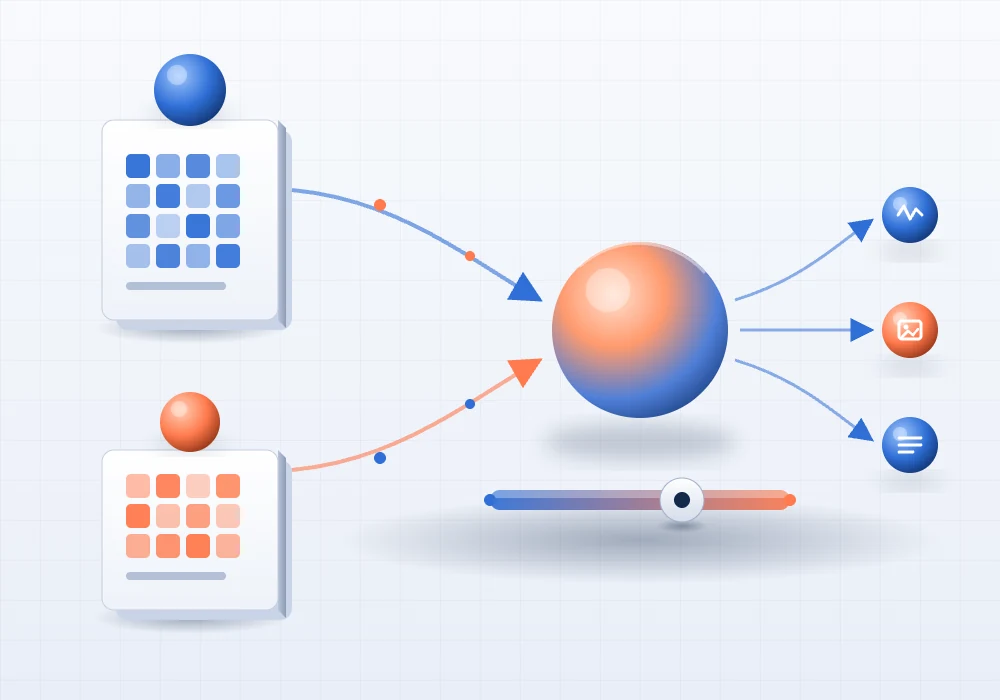
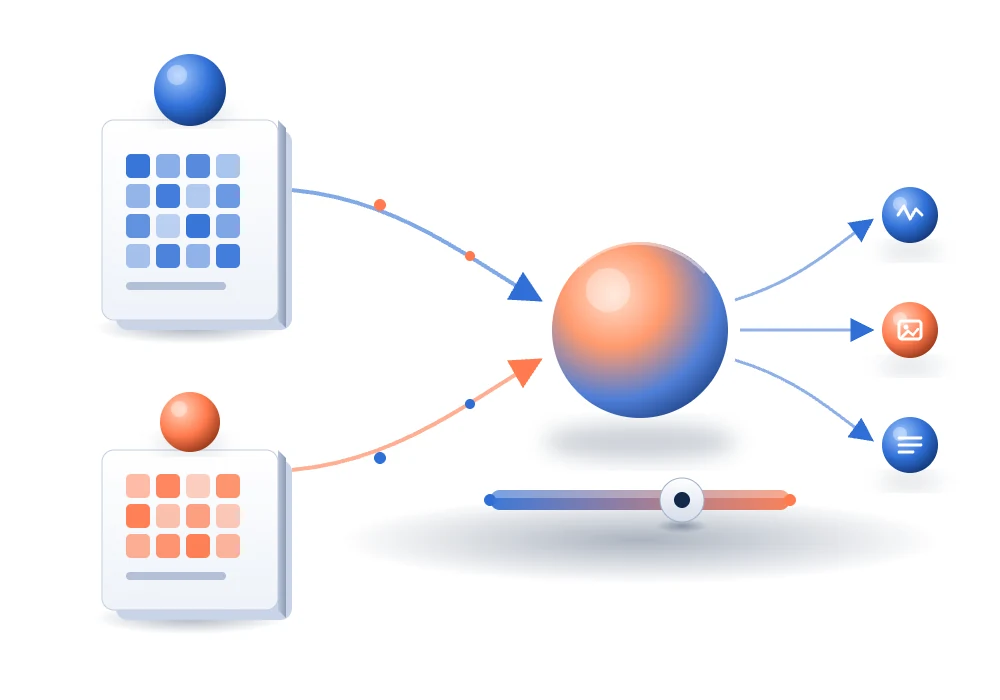
Update buttons to share the LinkChip style
Use LinkChip for paper, GitHub and journey buttons. Remove the liquid glass styles and the paper link component.

diff --git a/src/styles/globals.css b/src/styles/globals.css
@@ -135,14 +135,6 @@
     pointer-events: none;
   }
 
-  .link-chip.bg-gray-900 {
-    background-image: linear-gradient(180deg, rgba(255, 255, 255, 0.28), rgba(255, 255, 255, 0.08));
-    box-shadow:
-      inset 0 1px 0 rgba(255, 255, 255, 0.6),
-      inset 0 -1px 0 rgba(255, 255, 255, 0.15),
-      0 8px 22px -10px rgba(0, 0, 0, 0.6);
-  }
-
   .link-chip:hover {
     @apply no-underline;
     border-color: rgba(255, 255, 255, 0.9);
@@ -188,15 +180,6 @@
 
   .paper-badge-muted {
     background-color: #4c5b73;
-  }
-
-  /* Paper buttons: plain outlined pills, as on an academic homepage. */
-  .paper-link {
-    @apply inline-flex items-center gap-1.5 rounded-md border border-gray-300 bg-white px-3 py-1.5 text-sm font-medium text-gray-700 transition-colors duration-150;
-  }
-
-  .paper-link:hover {
-    @apply border-gray-400 bg-gray-50 text-gray-900 no-underline;
   }
 
   .announcement-box {
@@ -252,139 +235,3 @@
   }
 }
 
-.liquid-glass-button {
-  --glass-blur: 6px;
-  --glass-saturation: 180%;
-  --glass-border: rgba(255, 255, 255, 0.4);
-
-  position: relative;
-  background: rgba(219, 234, 254, 0.9);
-  backdrop-filter: blur(var(--glass-blur)) saturate(var(--glass-saturation));
-  -webkit-backdrop-filter: blur(var(--glass-blur)) saturate(var(--glass-saturation));
-  border: 1px solid var(--glass-border);
-  color: var(--color-primary);
-  border-radius: 14px;
-  overflow: hidden;
-  isolation: isolate;
-  box-shadow:
-    0 8px 32px rgba(31, 38, 135, 0.18),
-    inset 0 1px 1px rgba(255, 255, 255, 0.7),
-    inset 0 -1px 1px rgba(0, 0, 0, 0.1);
-  transition:
-    transform 0.3s cubic-bezier(0.34, 1.56, 0.64, 1),
-    box-shadow 0.3s ease,
-    border-color 0.3s ease,
-    background 0.3s ease;
-}
-
-.liquid-glass-button::before {
-  content: "";
-  position: absolute;
-  inset: 0;
-  background:
-    radial-gradient(ellipse 100% 80% at 50% -20%, rgba(255, 255, 255, 0.6) 0%, transparent 50%),
-    linear-gradient(
-      105deg,
-      transparent 40%,
-      rgba(255, 255, 255, 0.4) 45%,
-      rgba(255, 255, 255, 0.2) 50%,
-      transparent 55%
-    );
-  background-size: 100% 100%, 250% 100%;
-  background-position: 0 0, 100% 0;
-  opacity: 0.8;
-  border-radius: inherit;
-  pointer-events: none;
-  z-index: 1;
-  transition: background-position 0.5s ease, opacity 0.4s ease;
-}
-
-.liquid-glass-button::after {
-  content: "";
-  position: absolute;
-  inset: 0;
-  background: linear-gradient(
-    to bottom,
-    transparent 0%,
-    transparent 50%,
-    rgba(255, 255, 255, 0.15) 100%
-  );
-  border-radius: inherit;
-  box-shadow:
-    inset 0 0 30px rgba(255, 255, 255, 0.1),
-    inset 0 1px 2px rgba(255, 255, 255, 0.3);
-  pointer-events: none;
-  z-index: 2;
-  opacity: 0.7;
-  transition: opacity 0.4s ease;
-}
-
-.liquid-glass-button:hover {
-  --glass-border: rgba(255, 255, 255, 0.55);
-  background: rgba(191, 219, 254, 0.95);
-  transform: translateY(-3px) scale(1.02);
-  box-shadow:
-    0 12px 40px rgba(31, 38, 135, 0.25),
-    0 4px 12px rgba(147, 112, 219, 0.15),
-    inset 0 1px 2px rgba(255, 255, 255, 0.8),
-    inset 0 -1px 2px rgba(0, 0, 0, 0.1);
-}
-
-.liquid-glass-button:hover::before {
-  background-position: 0 0, -100% 0;
-  opacity: 1;
-}
-
-.liquid-glass-button:hover::after {
-  opacity: 1;
-}
-
-.liquid-glass-button:active {
-  transform: translateY(0) scale(0.98);
-  box-shadow:
-    0 4px 16px rgba(31, 38, 135, 0.12),
-    inset 0 2px 4px rgba(0, 0, 0, 0.15),
-    inset 0 -1px 1px rgba(255, 255, 255, 0.3);
-}
-
-.liquid-glass-button:focus-visible {
-  outline: 2px solid var(--color-accent);
-  outline-offset: 2px;
-}
-
-.liquid-glass-button-content {
-  position: relative;
-  z-index: 10;
-  display: flex;
-  align-items: center;
-  gap: 8px;
-}
-
-.liquid-glass-icon {
-  transition: transform 0.4s cubic-bezier(0.34, 1.56, 0.64, 1);
-  color: var(--color-accent);
-  filter: drop-shadow(0 1px 2px rgba(0, 0, 0, 0.1));
-}
-
-.liquid-glass-button:hover .liquid-glass-icon {
-  transform: translateX(4px) rotate(15deg) scale(1.1);
-}
-
-@media (prefers-color-scheme: dark) {
-  .liquid-glass-button {
-    --glass-border: rgba(255, 255, 255, 0.2);
-  }
-}
-
-@media (prefers-reduced-motion: reduce) {
-  .liquid-glass-button,
-  .liquid-glass-button::before,
-  .liquid-glass-button::after,
-  .liquid-glass-icon {
-    transition: none;
-  }
-
-  .liquid-glass-button:hover {
-    transform: none;
-  }
-}

diff --git a/src/components/ui/PublicationCard.tsx b/src/components/ui/PublicationCard.tsx
@@ -1,7 +1,7 @@
 import { Fragment } from "react"
-import { CirclePlay, FileText, Globe, Quote, type LucideIcon } from "lucide-react"
-import type { ContentCard, ContentLink } from "@/data/content"
+import type { ContentCard } from "@/data/content"
 import { PROFILE } from "@/data/content"
+import { LinkChip } from "@/components/ui/ContentLinks"
 
 // The venue acronym in parentheses is bold, as on the reference homepages.
 function renderVenue(venue: string) {
@@ -14,19 +14,6 @@ function renderVenue(venue: string) {
       <strong className="text-gray-700">{match[1]}</strong>
       {venue.slice(start + match[1].length)}
     </>
-  )
-}
-
-// Paper buttons are plain outlined pills, like an academic homepage, not the site's glass chips.
-const PAPER_ICONS: Partial<Record<string, LucideIcon>> = { pdf: FileText, "project page": Globe, video: CirclePlay, bibtex: Quote }
-
-function PaperLink({ link }: { link: ContentLink }) {
-  const Icon = PAPER_ICONS[link.label.toLowerCase()]
-  return (
-    <a href={link.url} target="_blank" rel="noopener noreferrer" className="paper-link">
-      {Icon ? <Icon size={13} /> : null}
-      {link.label}
-    </a>
   )
 }
 
@@ -95,7 +82,7 @@ export function PublicationCard({ publication }: PublicationCardProps) {
         {publication.links && publication.links.length > 0 && (
           <div className="mt-4 flex flex-wrap items-center gap-2">
             {publication.links.map((link) => (
-              <PaperLink key={link.url} link={link} />
+              <LinkChip key={link.url} link={link} />
             ))}
           </div>
         )}

diff --git a/src/pages/ProjectsPage.tsx b/src/pages/ProjectsPage.tsx
@@ -1,8 +1,8 @@
 import { BentoGrid } from "@/components/ui/BentoGrid"
 import { BentoItem } from "@/components/ui/BentoItem"
 import { ContentBullets } from "@/components/ui/ContentBullets"
+import { LinkChip } from "@/components/ui/ContentLinks"
 import { SectionHeader } from "@/components/ui/SectionHeader"
-import { ExternalLink, GithubIcon } from "lucide-react"
 import { SECTIONS } from "@/data/content"
 import { splitLinksByLabel } from "@/utils/cards"
 
@@ -49,28 +49,9 @@ export function ProjectsPage() {
               </div>
 
               <div className="flex flex-wrap gap-2 mt-auto pt-4">
-                {githubLink && (
-                  <a
-                    href={githubLink.url}
-                    target="_blank"
-                    rel="noopener noreferrer"
-                    className="link-chip bg-gray-900 text-white hover:bg-gray-700"
-                  >
-                    <GithubIcon size={12} />
-                    GitHub
-                  </a>
-                )}
+                {githubLink && <LinkChip link={githubLink} />}
                 {otherLinks.map((link) => (
-                  <a
-                    key={link.url}
-                    href={link.url}
-                    target="_blank"
-                    rel="noopener noreferrer"
-                    className="link-chip"
-                  >
-                    {link.label}
-                    <ExternalLink size={12} />
-                  </a>
+                  <LinkChip key={link.url} link={link} />
                 ))}
               </div>
             </BentoItem>

diff --git a/src/components/ui/ContentLinks.tsx b/src/components/ui/ContentLinks.tsx
@@ -1,20 +1,23 @@
-import { CirclePlay, ExternalLink, FileText, Globe, type LucideIcon } from "lucide-react"
+import { CirclePlay, ExternalLink, FileText, Github, Globe, Quote, type LucideIcon } from "lucide-react"
 import type { ContentLink } from "@/data/content"
 
-// Keyed by lowercase link label; matched links show this icon in place of the external-link arrow.
+// Keyed by lowercase link label; matched links lead with this icon, others end with an external-link arrow.
 const LINK_ICONS: Partial<Record<string, LucideIcon>> = {
   arxiv: FileText,
+  pdf: FileText,
   "project page": Globe,
   video: CirclePlay,
+  bibtex: Quote,
+  github: Github,
 }
 
-function LinkChip({ link }: { link: ContentLink }) {
+export function LinkChip({ link }: { link: ContentLink }) {
   const Icon = LINK_ICONS[link.label.toLowerCase()]
   return (
     <a href={link.url} target="_blank" rel="noopener noreferrer" className="link-chip">
-      {Icon ? <Icon size={12} /> : null}
+      {Icon ? <Icon size={13} strokeWidth={2.25} /> : null}
       {link.label}
-      {Icon ? null : <ExternalLink size={12} />}
+      {Icon ? null : <ExternalLink size={13} strokeWidth={2.25} />}
     </a>
   )
 }

diff --git a/src/components/layout/Navigation.tsx b/src/components/layout/Navigation.tsx
@@ -45,12 +45,10 @@ export function Navigation({ onMenuClick }: NavigationProps) {
             href="https://edward-h26.github.io/PersonalWebsite/"
             target="_blank"
             rel="noopener noreferrer"
-            className={prefersReducedMotion ? "px-4 py-2 text-sm font-semibold rounded-full bg-accent text-white hover:bg-accent/90 transition-colors" : "px-4 py-2 text-sm font-semibold liquid-glass-button rounded-full"}
+            className="link-chip rounded-full px-4 py-2 font-semibold"
           >
-            <span className={prefersReducedMotion ? "flex items-center gap-2" : "liquid-glass-button-content"}>
-              <span>Explore My Journey</span>
-              <Sparkles size={14} className={prefersReducedMotion ? "text-primary" : "liquid-glass-icon"} />
-            </span>
+            Explore My Journey
+            <Sparkles size={14} strokeWidth={2.25} className="text-accent" />
           </a>
         </div>
       </motion.header>
